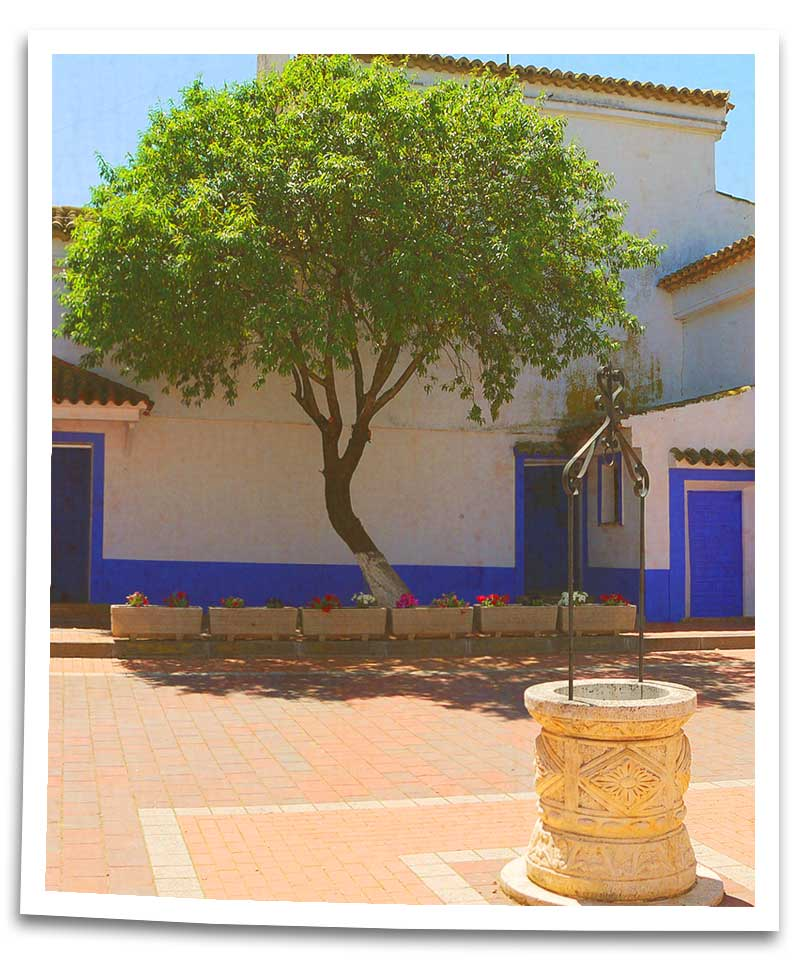
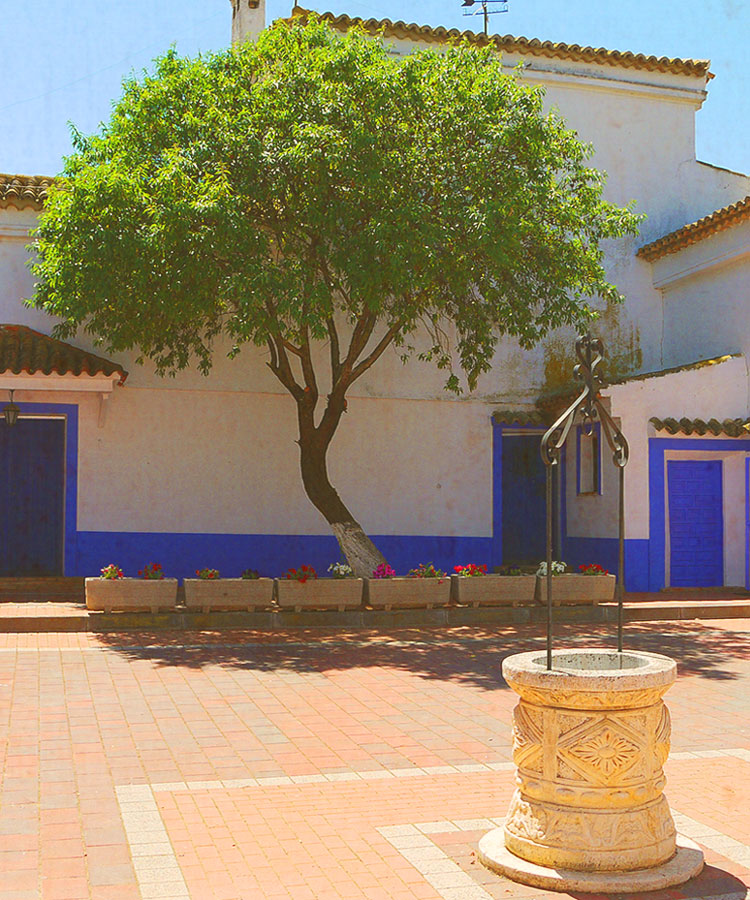
tourism photo redone

diff --git a/emdr/static/css/main.css b/emdr/static/css/main.css
@@ -534,10 +534,11 @@ body {
   display: inline-block;
 }
 
-/* line 39, ../../blocks/tourism/_tourism.sass */
+/* line 38, ../../blocks/tourism/_tourism.sass */
 .tourism__image img {
-  width: 300px;
-  height: 450px;
+  width: 364px;
+  height: 437px;
+  border: 2px solid white;
 }
 
 /* line 44, ../../blocks/tourism/_tourism.sass */

diff --git a/emdr/blocks/tourism/tourism.html b/emdr/blocks/tourism/tourism.html
@@ -1,6 +1,6 @@
 <section class="tourism">
 	<div class="tourism__image">
-	  <img src="{{ url_for('static', filename="images/tourism.png") }}" />
+	  <img src="{{ url_for('static', filename="images/tourism.jpg") }}" />
         </div><!--
 	--><div class="tourism__text">
 	  <h3 class="tourism__title">Ven a visitarnos</h3>

diff --git a/emdr/blocks/tourism/_tourism.sass b/emdr/blocks/tourism/_tourism.sass
@@ -32,14 +32,14 @@
 .tourism__image
   width: 40%
   display: inline-block
-  
   //background: red
   //height: 450px
 
 .tourism__image img
-  width: 300px
-  height: 450px
+  width: 364px
+  height: 437px
 
+  border: 2px solid white 
 
 .tourism__text
   width: 60%
